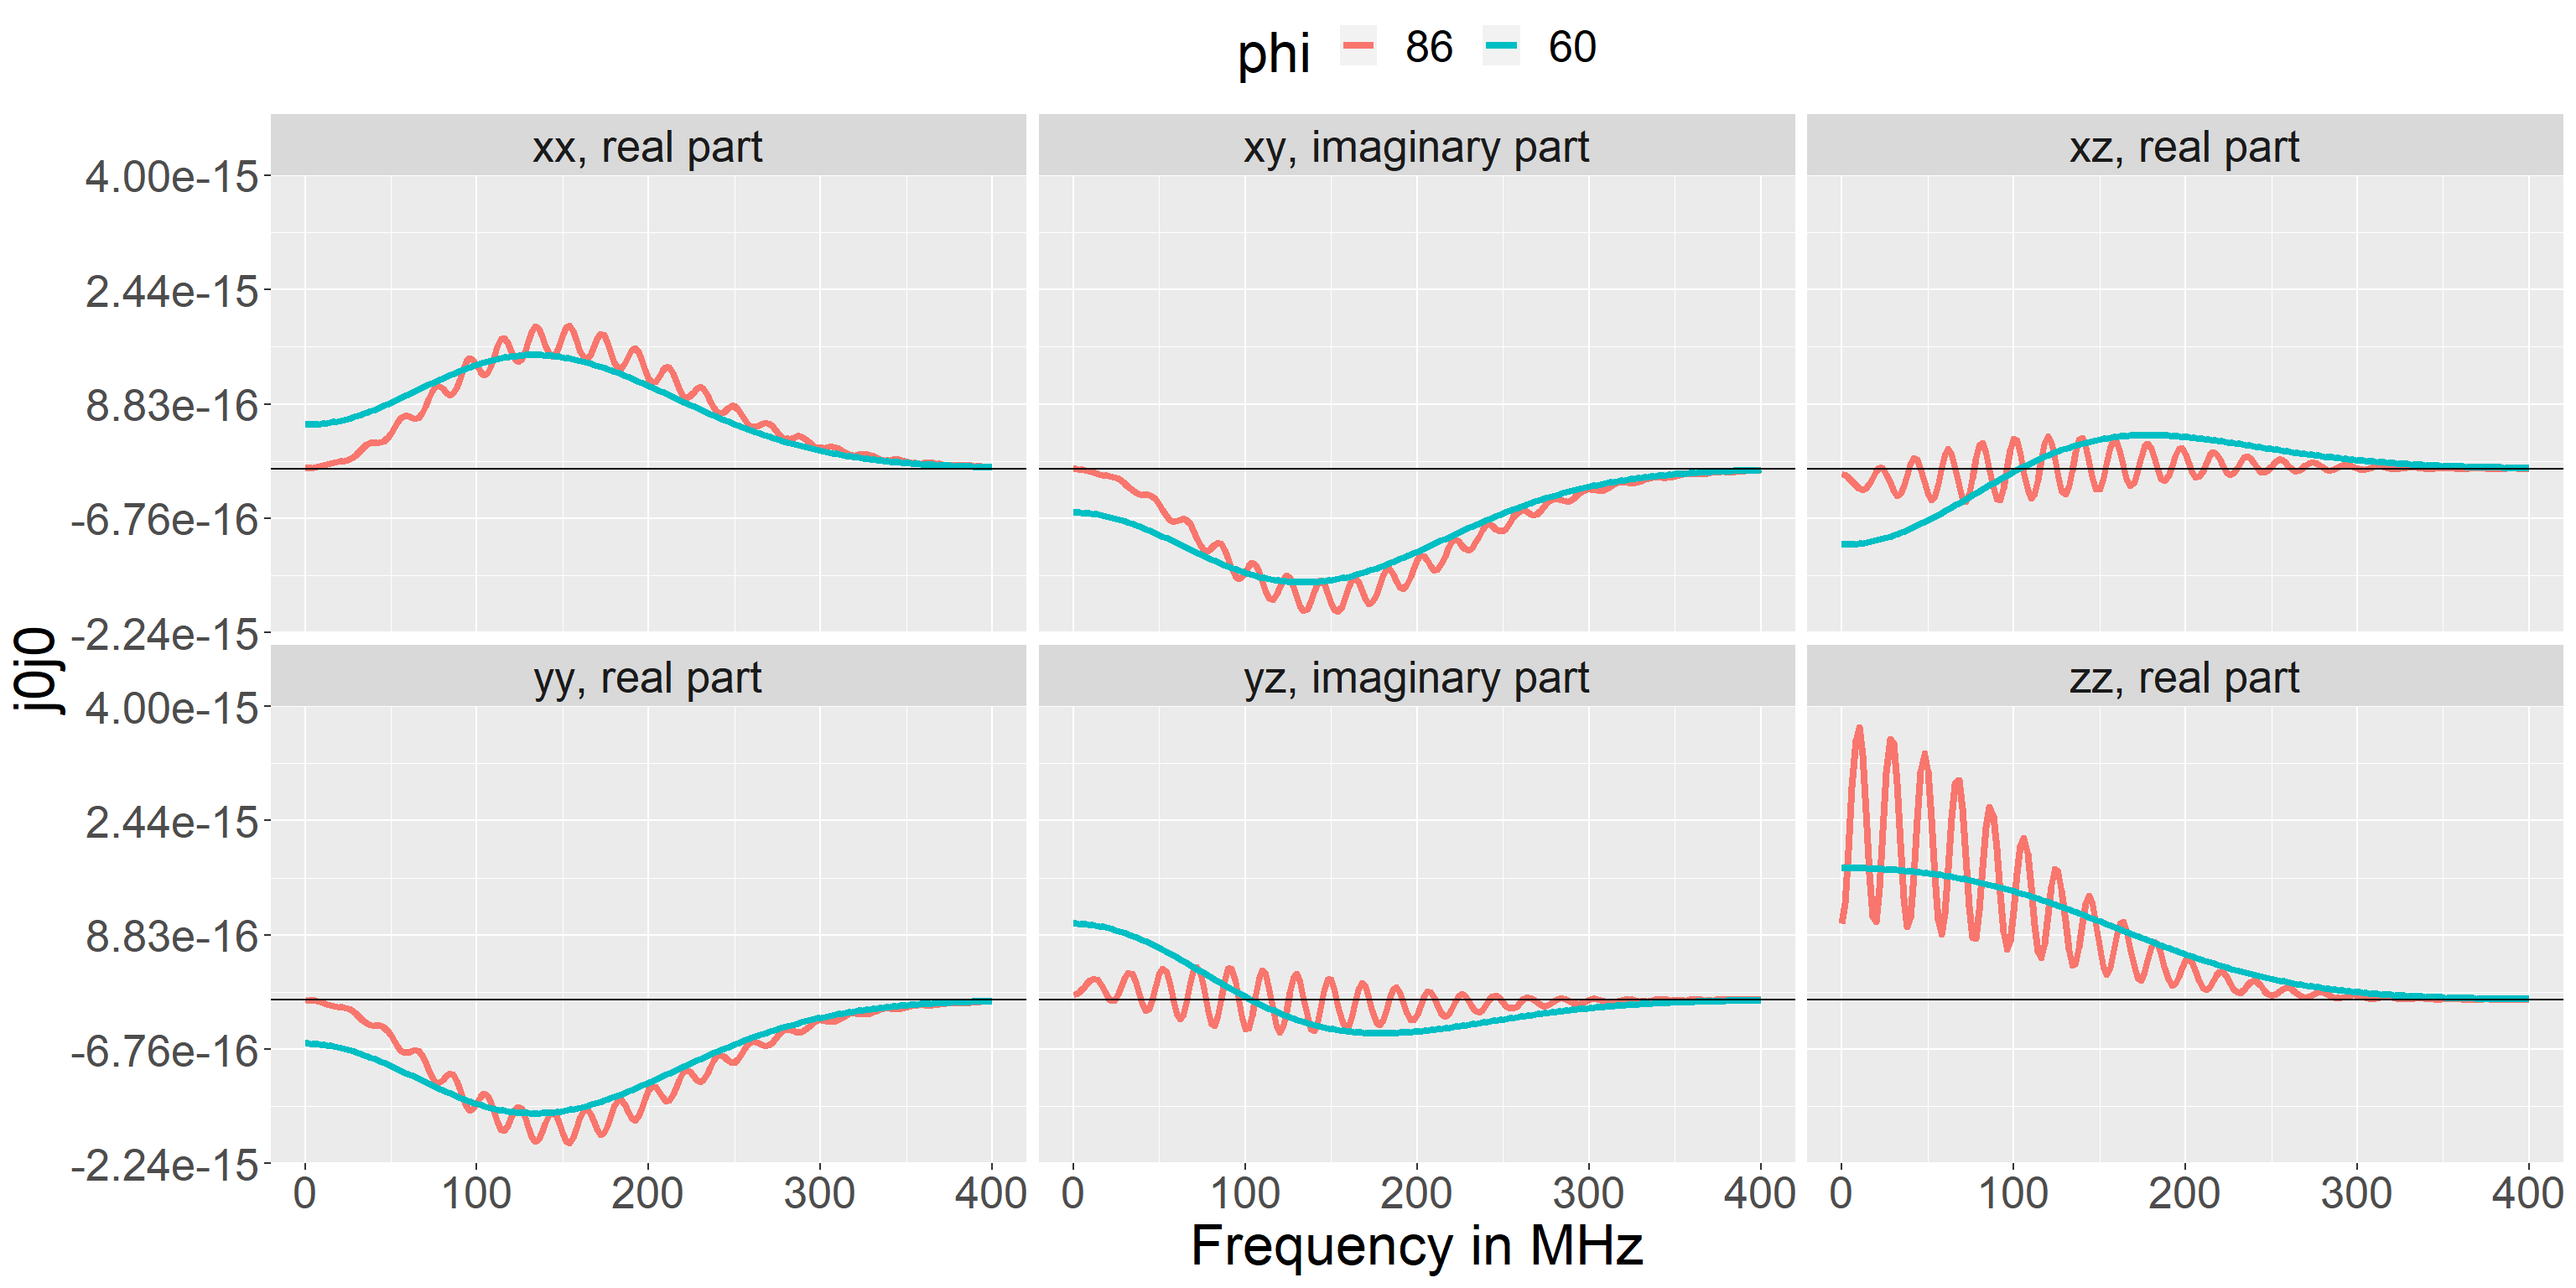
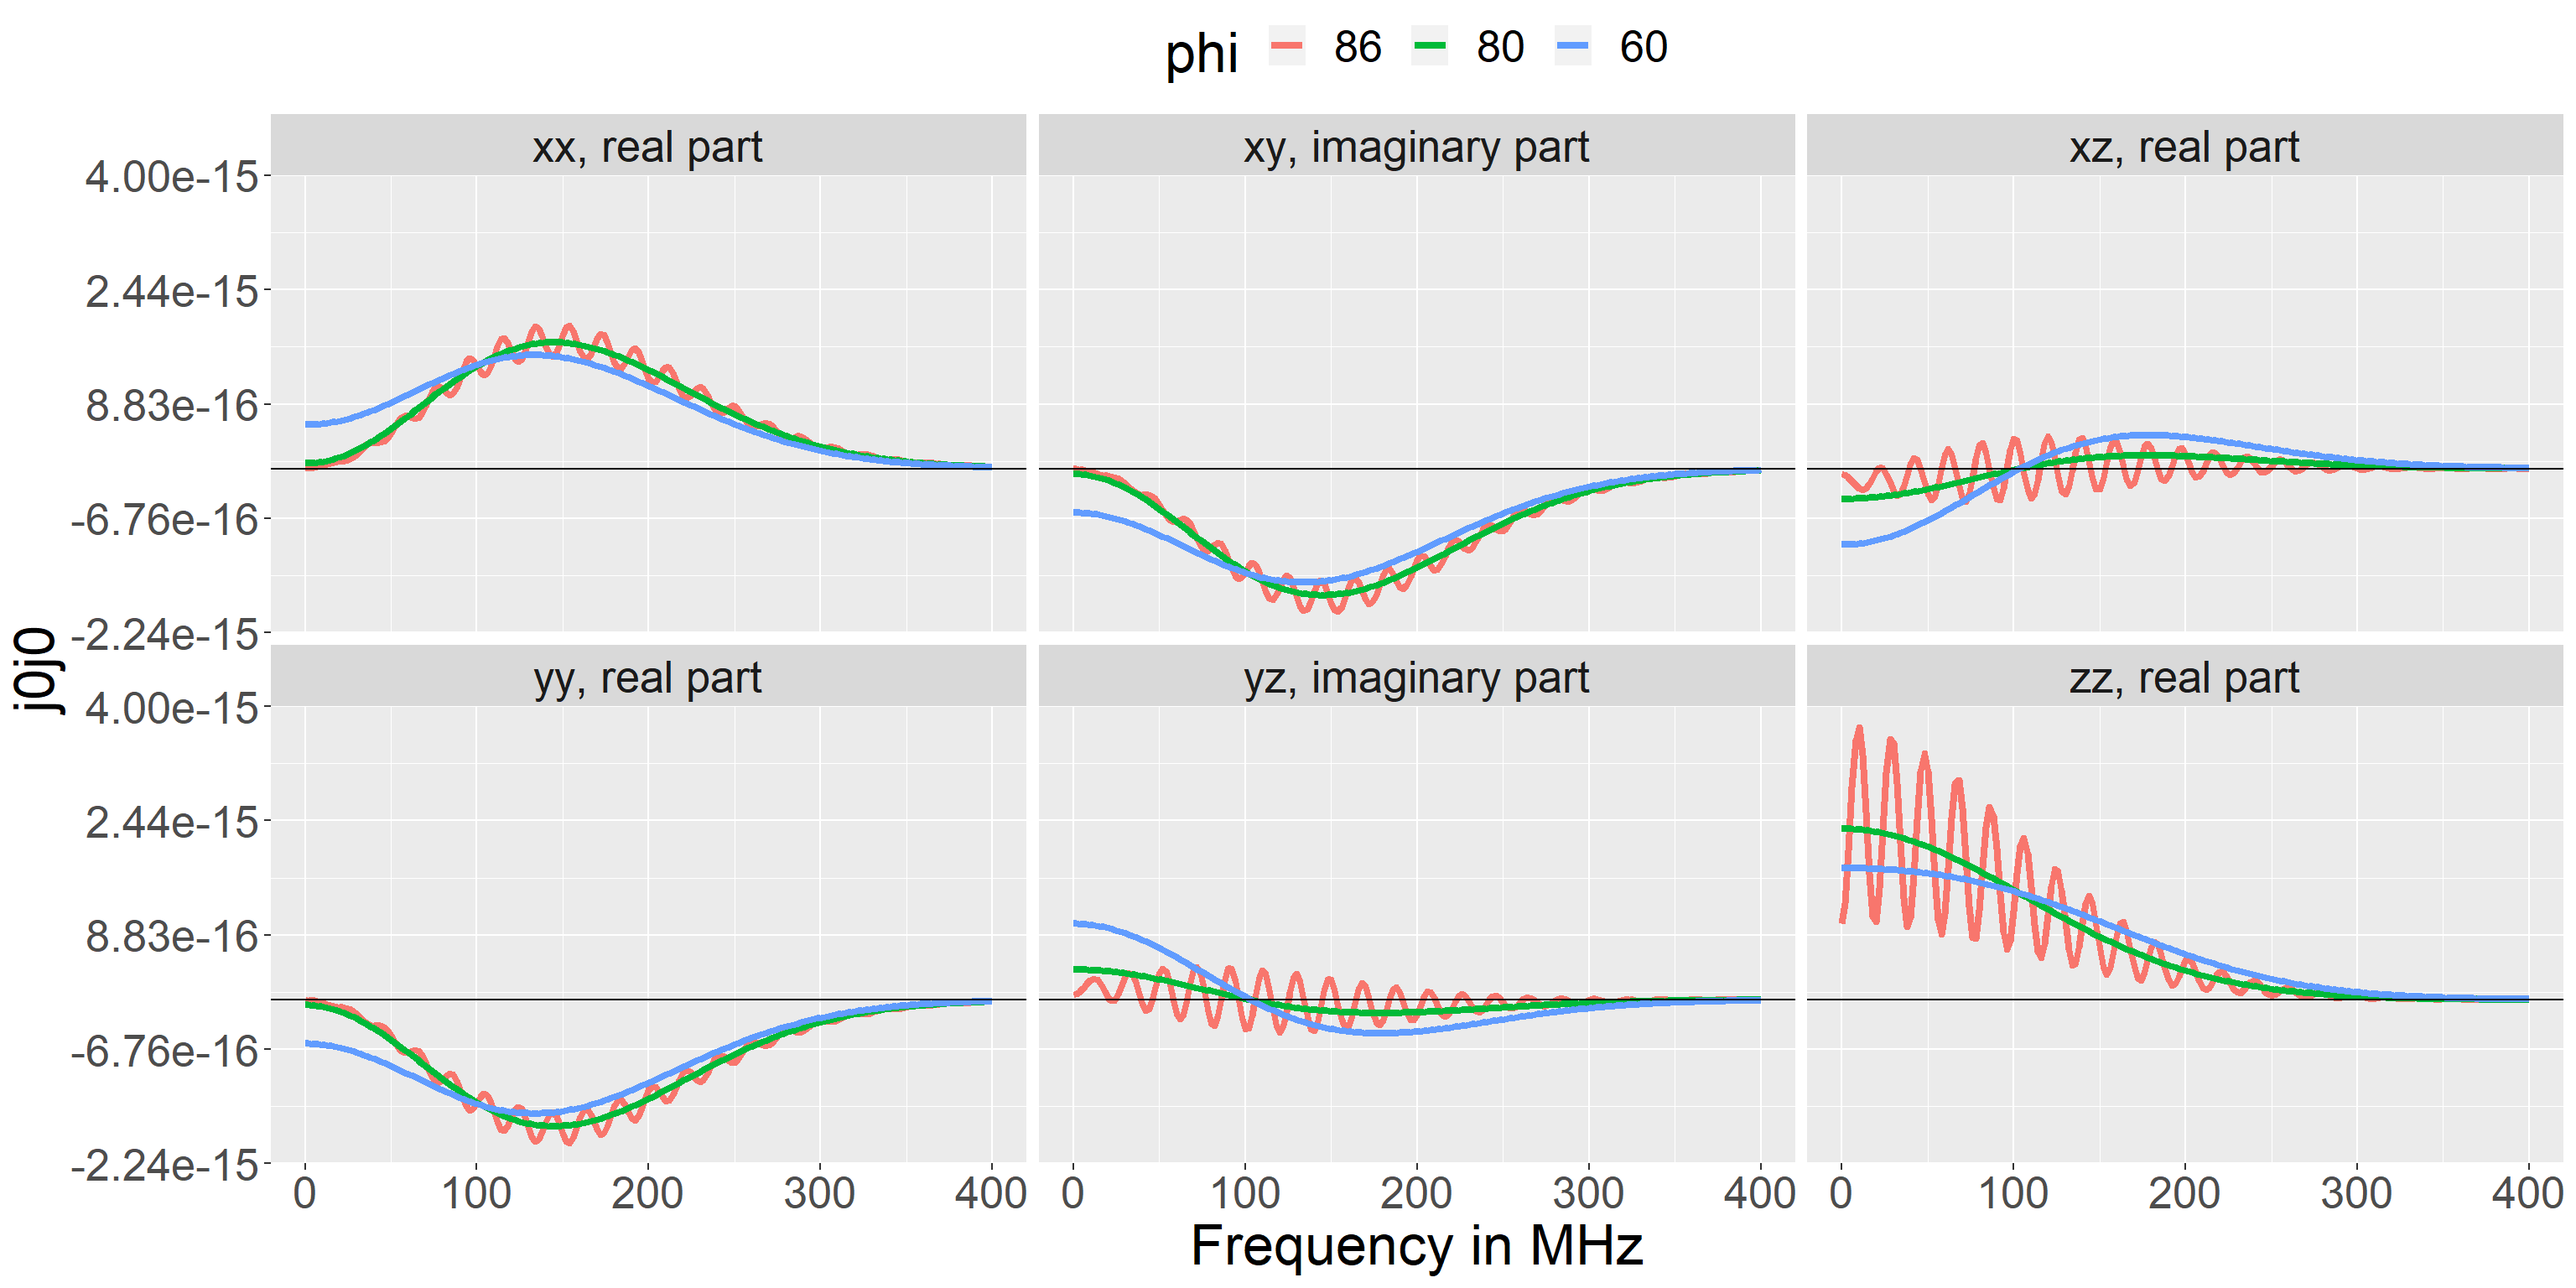
correct maxwelliann_example to use three phi values

diff --git a/docs/index.html b/docs/index.html
@@ -149,10 +149,10 @@
 <a class="sourceLine" id="cb6-9" title="9">  <span class="dt">axis.text.x =</span> ggplot2<span class="op">::</span><span class="kw"><a href="https://ggplot2.tidyverse.org/reference/element.html">element_text</a></span>(<span class="dt">angle =</span> <span class="dv">-45</span>, <span class="dt">size =</span> <span class="dv">10</span>)</a>
 <a class="sourceLine" id="cb6-10" title="10">) </a></code></pre></div>
 <p><img src="reference/figures/README-maxwdist-1.png" width="100%" style="display: block; margin: auto;"></p>
-<p>The elements of the current correlation tensor can now be calculated with the <code>j0j0</code> function. Here assuming a magnetic field of 2.5 T, a wave vector length corresponding to 3 mm waves, resolved angles of 60 and 86 degrees, and frequencies between 0 and 400 MHz.</p>
+<p>The elements of the current correlation tensor can now be calculated with the <code>j0j0</code> function. Here assuming a magnetic field of 2.5 T, a wave vector length corresponding to 3 mm waves, resolved angles of 60, 80 and 86 degrees, and frequencies between 0 and 400 MHz.</p>
 <div class="sourceCode" id="cb7"><pre class="sourceCode r"><code class="sourceCode r"><a class="sourceLine" id="cb7-1" title="1">maxwellian_example &lt;-<span class="st"> </span><span class="kw"><a href="reference/j0j0.html">j0j0</a></span>(</a>
 <a class="sourceLine" id="cb7-2" title="2">  <span class="dt">k =</span> <span class="dv">2</span> <span class="op">*</span><span class="st"> </span>pi <span class="op">/</span><span class="st"> </span>(j0j0r<span class="op">::</span>const<span class="op">$</span>c <span class="op">/</span><span class="st"> </span><span class="fl">100e9</span>),</a>
-<a class="sourceLine" id="cb7-3" title="3">  <span class="dt">phi =</span> <span class="kw"><a href="https://rdrr.io/r/base/c.html">c</a></span>(<span class="dv">60</span>, <span class="dv">86</span>),</a>
+<a class="sourceLine" id="cb7-3" title="3">  <span class="dt">phi =</span> <span class="kw"><a href="https://rdrr.io/r/base/c.html">c</a></span>(<span class="dv">60</span>, <span class="dv">80</span>, <span class="dv">86</span>),</a>
 <a class="sourceLine" id="cb7-4" title="4">  <span class="dt">frequencies =</span> <span class="kw"><a href="https://rdrr.io/r/base/seq.html">seq</a></span>(<span class="dv">0</span>, <span class="fl">400e6</span>, <span class="dt">by =</span> <span class="fl">2e6</span>),</a>
 <a class="sourceLine" id="cb7-5" title="5">  <span class="dt">directions =</span> <span class="kw"><a href="https://rdrr.io/r/base/c.html">c</a></span>(<span class="st">"x"</span>, <span class="st">"y"</span>, <span class="st">"z"</span>),</a>
 <a class="sourceLine" id="cb7-6" title="6">  <span class="dt">B =</span> <span class="fl">2.5</span>,</a>
@@ -161,18 +161,18 @@
 <a class="sourceLine" id="cb7-9" title="9">)</a></code></pre></div>
 <p>The output is a tibble with results (j0j0) for all combinations of all values of the input variables:</p>
 <div class="sourceCode" id="cb8"><pre class="sourceCode r"><code class="sourceCode r"><a class="sourceLine" id="cb8-1" title="1">dplyr<span class="op">::</span><span class="kw"><a href="https://dplyr.tidyverse.org/reference/reexports.html">glimpse</a></span>(maxwellian_example)</a>
-<a class="sourceLine" id="cb8-2" title="2"><span class="co">#&gt; Observations: 2,412</span></a>
+<a class="sourceLine" id="cb8-2" title="2"><span class="co">#&gt; Observations: 3,618</span></a>
 <a class="sourceLine" id="cb8-3" title="3"><span class="co">#&gt; Variables: 10</span></a>
 <a class="sourceLine" id="cb8-4" title="4"><span class="co">#&gt; $ k                  &lt;dbl&gt; 2095.845, 2095.845, 2095.845, 2095.845, 209...</span></a>
-<a class="sourceLine" id="cb8-5" title="5"><span class="co">#&gt; $ phi                &lt;dbl&gt; 60, 86, 60, 86, 60, 86, 60, 86, 60, 86, 60,...</span></a>
-<a class="sourceLine" id="cb8-6" title="6"><span class="co">#&gt; $ frequency          &lt;dbl&gt; 0.0e+00, 0.0e+00, 2.0e+06, 2.0e+06, 4.0e+06...</span></a>
+<a class="sourceLine" id="cb8-5" title="5"><span class="co">#&gt; $ phi                &lt;dbl&gt; 60, 80, 86, 60, 80, 86, 60, 80, 86, 60, 80,...</span></a>
+<a class="sourceLine" id="cb8-6" title="6"><span class="co">#&gt; $ frequency          &lt;dbl&gt; 0.0e+00, 0.0e+00, 0.0e+00, 2.0e+06, 2.0e+06...</span></a>
 <a class="sourceLine" id="cb8-7" title="7"><span class="co">#&gt; $ B                  &lt;dbl&gt; 2.5, 2.5, 2.5, 2.5, 2.5, 2.5, 2.5, 2.5, 2.5...</span></a>
 <a class="sourceLine" id="cb8-8" title="8"><span class="co">#&gt; $ particle           &lt;chr&gt; "maxwellian", "maxwellian", "maxwellian", "...</span></a>
 <a class="sourceLine" id="cb8-9" title="9"><span class="co">#&gt; $ integration_method &lt;chr&gt; "hcubature", "hcubature", "hcubature", "hcu...</span></a>
 <a class="sourceLine" id="cb8-10" title="10"><span class="co">#&gt; $ directions         &lt;chr&gt; "xx", "xx", "xx", "xx", "xx", "xx", "xx", "...</span></a>
 <a class="sourceLine" id="cb8-11" title="11"><span class="co">#&gt; $ A                  &lt;dbl&gt; 2, 2, 2, 2, 2, 2, 2, 2, 2, 2, 2, 2, 2, 2, 2...</span></a>
 <a class="sourceLine" id="cb8-12" title="12"><span class="co">#&gt; $ Z                  &lt;dbl&gt; 1, 1, 1, 1, 1, 1, 1, 1, 1, 1, 1, 1, 1, 1, 1...</span></a>
-<a class="sourceLine" id="cb8-13" title="13"><span class="co">#&gt; $ j0j0               &lt;cpl&gt; 5.984923e-16+0i, 5.095825e-18+0i, 5.990463e...</span></a></code></pre></div>
+<a class="sourceLine" id="cb8-13" title="13"><span class="co">#&gt; $ j0j0               &lt;cpl&gt; 5.984923e-16+0i, 7.253801e-17+0i, 5.095825e...</span></a></code></pre></div>
 <p>The results can be plotted with:</p>
 <div class="sourceCode" id="cb9"><pre class="sourceCode r"><code class="sourceCode r"><a class="sourceLine" id="cb9-1" title="1"><span class="kw"><a href="reference/plot_j0j0.html">plot_j0j0</a></span>(maxwellian_example, <span class="dt">wrap_by =</span> <span class="st">"element"</span>, <span class="dt">color_by =</span> <span class="st">"phi"</span>)</a></code></pre></div>
 <p><img src="reference/figures/README-maxwj0j0-1.png" width="100%" style="display: block; margin: auto;"></p>

diff --git a/README.md b/README.md
@@ -119,13 +119,13 @@ ggplot2::theme(
 
 The elements of the current correlation tensor can now be calculated
 with the `j0j0` function. Here assuming a magnetic field of 2.5 T, a
-wave vector length corresponding to 3 mm waves, resolved angles of 60
-and 86 degrees, and frequencies between 0 and 400 MHz.
+wave vector length corresponding to 3 mm waves, resolved angles of 60,
+80 and 86 degrees, and frequencies between 0 and 400 MHz.
 
 ``` r
 maxwellian_example <- j0j0(
   k = 2 * pi / (j0j0r::const$c / 100e9),
-  phi = c(60, 86),
+  phi = c(60, 80, 86),
   frequencies = seq(0, 400e6, by = 2e6),
   directions = c("x", "y", "z"),
   B = 2.5,
@@ -139,18 +139,18 @@ values of the input variables:
 
 ``` r
 dplyr::glimpse(maxwellian_example)
-#> Observations: 2,412
+#> Observations: 3,618
 #> Variables: 10
 #> $ k                  <dbl> 2095.845, 2095.845, 2095.845, 2095.845, 209...
-#> $ phi                <dbl> 60, 86, 60, 86, 60, 86, 60, 86, 60, 86, 60,...
-#> $ frequency          <dbl> 0.0e+00, 0.0e+00, 2.0e+06, 2.0e+06, 4.0e+06...
+#> $ phi                <dbl> 60, 80, 86, 60, 80, 86, 60, 80, 86, 60, 80,...
+#> $ frequency          <dbl> 0.0e+00, 0.0e+00, 0.0e+00, 2.0e+06, 2.0e+06...
 #> $ B                  <dbl> 2.5, 2.5, 2.5, 2.5, 2.5, 2.5, 2.5, 2.5, 2.5...
 #> $ particle           <chr> "maxwellian", "maxwellian", "maxwellian", "...
 #> $ integration_method <chr> "hcubature", "hcubature", "hcubature", "hcu...
 #> $ directions         <chr> "xx", "xx", "xx", "xx", "xx", "xx", "xx", "...
 #> $ A                  <dbl> 2, 2, 2, 2, 2, 2, 2, 2, 2, 2, 2, 2, 2, 2, 2...
 #> $ Z                  <dbl> 1, 1, 1, 1, 1, 1, 1, 1, 1, 1, 1, 1, 1, 1, 1...
-#> $ j0j0               <cpl> 5.984923e-16+0i, 5.095825e-18+0i, 5.990463e...
+#> $ j0j0               <cpl> 5.984923e-16+0i, 7.253801e-17+0i, 5.095825e...
 ```
 
 The results can be plotted with:
